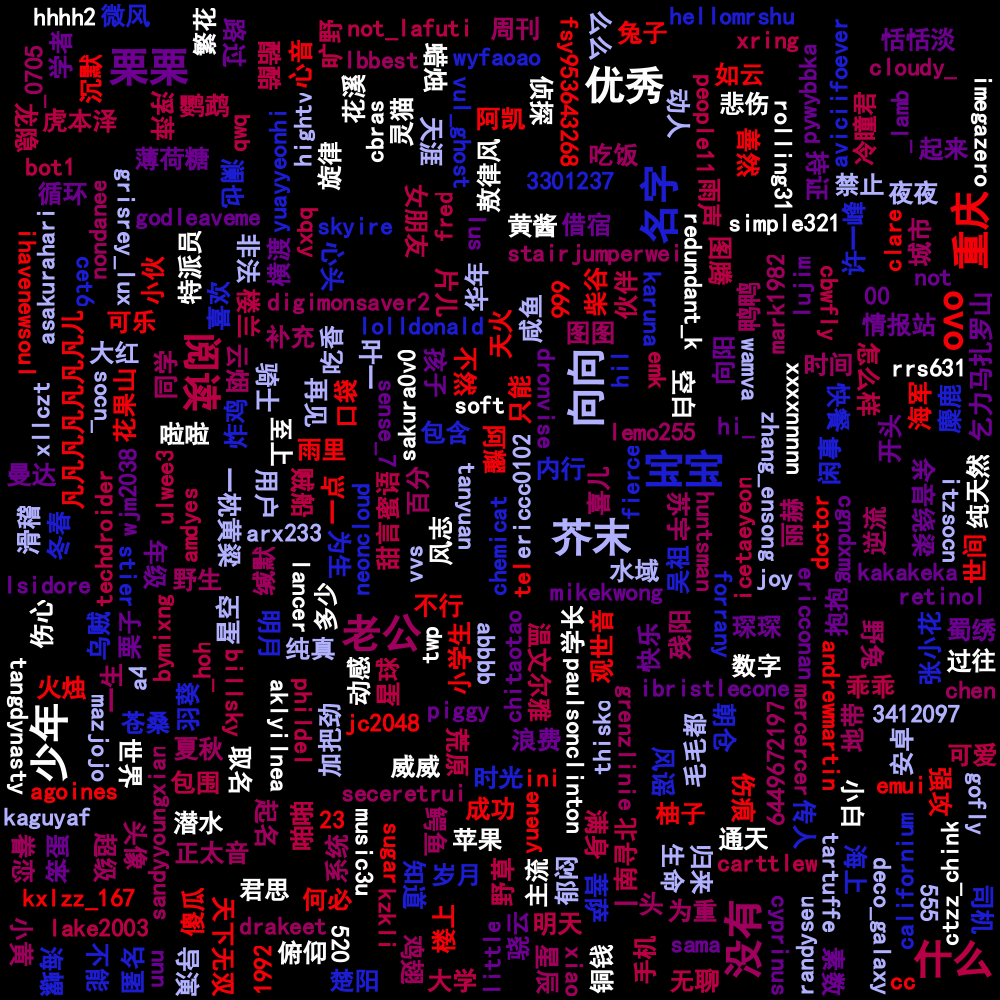
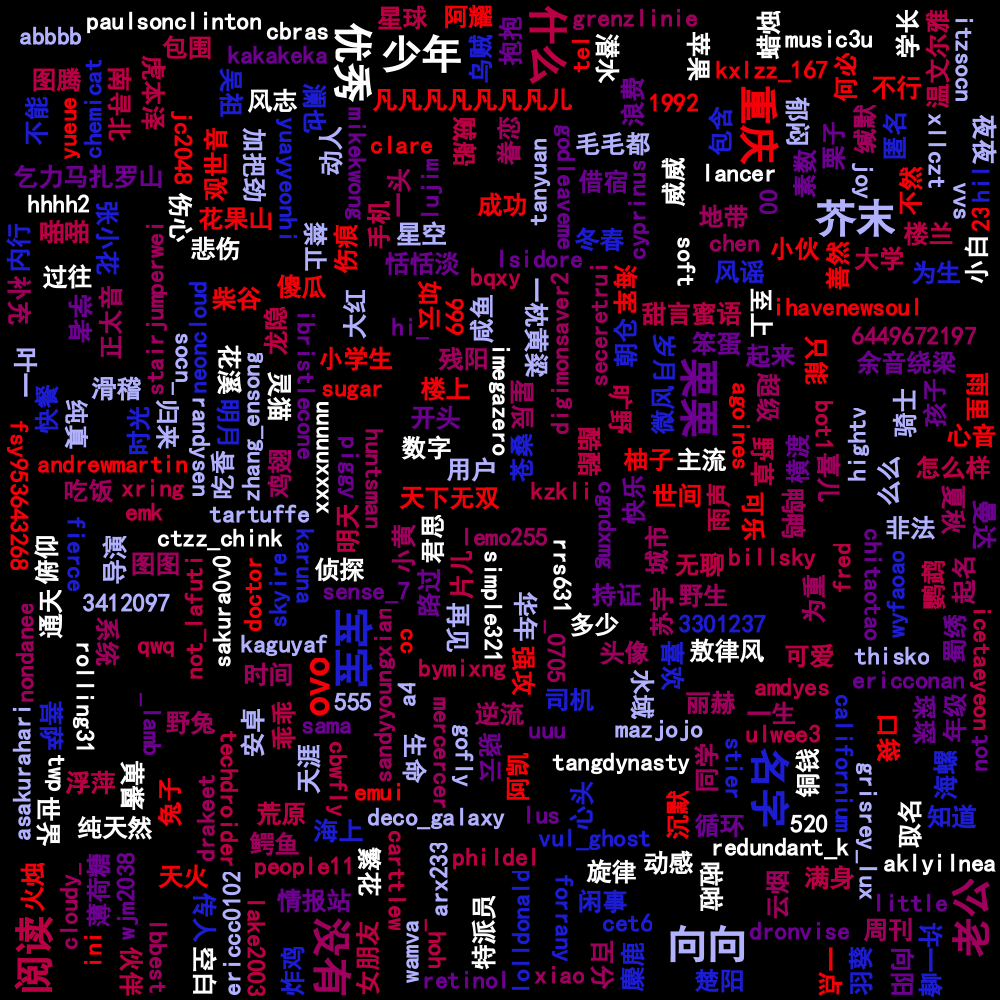
fix(FansWordCloud.java): 修复 WordCloudFilePath(userID,name,backgroundImage) 的空指针问题fix(DataClass/*.java): 将所有数据类 final 修饰 docs(FansWordCloud*.png): 定时更新数据输出,添加代码注释

diff --git a/CoolApkFans/src/FansWordCloud.java b/CoolApkFans/src/FansWordCloud.java
@@ -21,6 +21,7 @@ import java.util.List;
 
 public class FansWordCloud {
 
+    //部分默认值
     //字体
     static Font font = new Font("黑体",Font.BOLD, 22);
     //词云颜色，越靠前的颜色权重越高
@@ -30,6 +31,7 @@ public class FansWordCloud {
     static Color backgroundColor = new Color(0, 0, 1);
 
 
+    //配置词云数据来源输出
     final static class WordCloudFilePath {
         final int userID;
         int width;
@@ -87,13 +89,13 @@ public class FansWordCloud {
     }
 
 
+    //重载方法
     public static WordCloudFilePath getFansWordCloudFilePathWithName(int userID, int width, int height, String name) {
         return new WordCloudFilePath(userID,width,height,name);
     }
     public static WordCloudFilePath getFansWordCloudFilePath(int userID, int width, int height) {
         return new WordCloudFilePath(userID,width,height,"");
     }
-
 
     public static WordCloudFilePath getFansWordCloudFilePathWithImage(int userID, int width, int height) {
         return new WordCloudFilePath(userID,width,height,"WithImage");
@@ -179,6 +181,13 @@ public class FansWordCloud {
         getFansWordCloud(font,width,height,outputFile,wordFrequencies);
     }
 
+
+
+
+
+
+    //工作代码
+
     /**
      * 获取所有粉丝的用户名,之后生成词云图片(矩形)
      *
@@ -213,6 +222,9 @@ public class FansWordCloud {
         wordCloud.build(wordFrequencies);
         wordCloud.writeToFile(outputFile);
     }
+
+
+    //完全自定义
 
     /**
      * 获取所有粉丝的用户名,之后生成词云图片(矩形)
@@ -252,6 +264,7 @@ public class FansWordCloud {
         wordCloud.writeToFile(wordCloudFilePath.path);
     }
 
+
     /**
      * 获取所有粉丝的用户名,之后生成词云图片(使用图片背景蒙版) 注意使用的图片需要自行把不需要渲染的部分擦除成透明像素,否则和矩形一样
      *
@@ -290,6 +303,11 @@ public class FansWordCloud {
     }
 
 
+
+    //以下为解耦分出的代码
+
+
+    //将字串符包装为数据流
     public static InputStream getStringStream(String sInputString) {
         if (sInputString != null && !sInputString.trim().equals("")){
             return new ByteArrayInputStream(sInputString.getBytes());
@@ -297,9 +315,7 @@ public class FansWordCloud {
         return null;
     }
 
-
-
-    //返回词云list,使用 KUAM 的分词功能
+    //返回词云list,使用 KUAM 的中文分词功能
     protected static List<WordFrequency> getWordFrequenciesWithChineseWordTokenizer(ArrayList<Data> fansDataList, List<String> stopWords) {
 
         final FrequencyAnalyzer frequencyAnalyzer = new FrequencyAnalyzer();
@@ -371,7 +387,7 @@ public class FansWordCloud {
 
 
 
-    //序列化的代码 一个保存 一个恢复
+    //序列化的代码 保存
     private static ArrayList<Data> runOnGetNewFansData(int userID) {
         ArrayList<Data> fansData = CoolApkFansApi.getFansData(userID);
         try {
@@ -387,6 +403,7 @@ public class FansWordCloud {
         return fansData;
     }
 
+    //序列化的代码 恢复
     private static ArrayList<Data> runOnGetOldFansData(int userID) {
         ArrayList<Data> fansData;
         try {
@@ -421,4 +438,5 @@ public class FansWordCloud {
         }
         return Width_Height;
     }
+
 }
